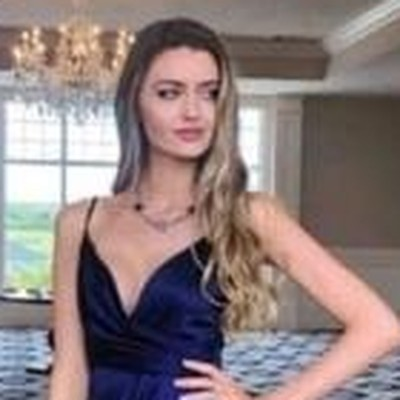
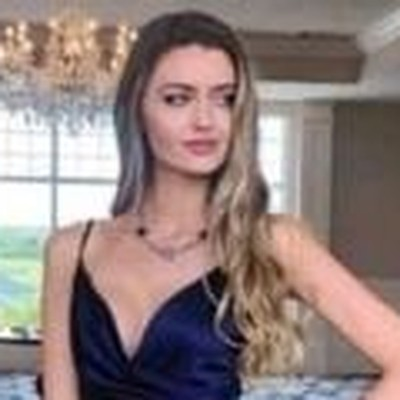
Dounia photo: tighter headshot crop (face now ~42% of frame, hand-on-hip and black arc excluded); ?v=team003

diff --git a/manifesto.html b/manifesto.html
@@ -9,7 +9,7 @@
 <link rel="stylesheet" href="styles.css?v=manif001">
 </head>
 <body>
-<script src="assets/currency.js?v=ccy003"></script>
+<script src="assets/currency.js?v=ccy002"></script>
 <script src="app.js?v=manif001"></script>
 
 <main>
@@ -68,7 +68,7 @@
         <p class="team-bio" data-i18n="team.b2">Drives strategy and platform development.</p>
       </div>
       <div class="team-card rv">
-        <img src="assets/team-dounia.jpg?v=team002" alt="Dounia Filali" loading="lazy">
+        <img src="assets/team-dounia.jpg?v=team003" alt="Dounia Filali" loading="lazy">
         <h3><a href="https://www.linkedin.com/in/dounia-filali-9a16a3207" target="_blank" rel="noopener" class="team-link">Dounia Filali</a></h3>
         <p class="team-role" data-i18n="team.r3">Commercial Manager — North Africa & Europe</p>
         <p class="team-bio" data-i18n="team.b3">Your contact for Morocco, Algeria, Tunisia, and European markets.</p>
